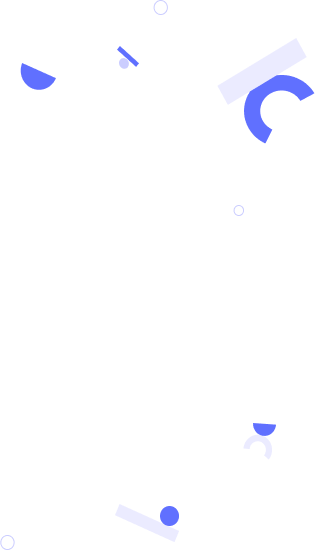
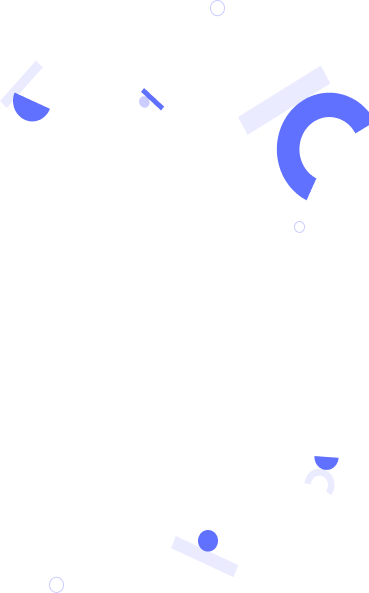
updated

diff --git a/css/index.css b/css/index.css
@@ -128,8 +128,10 @@
   }
 
   .page1 {
-    background-image: url("image/header-shapes mobile.jpg");
+  background-image: url(/image/header-shapes\ mobile.png);
     background-size: cover;
+    background-position: center;
+    background-repeat: no-repeat;
   }
 
   .secondp {
